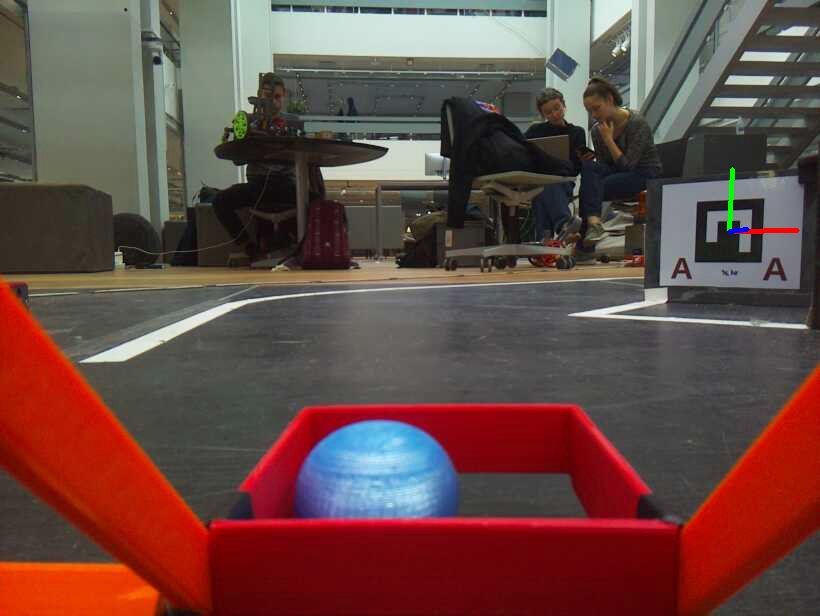
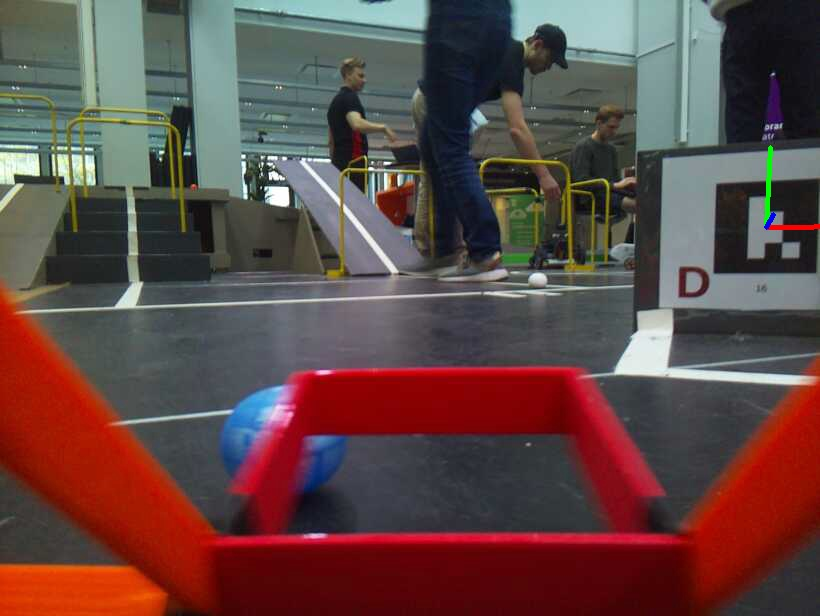
roundtherosy

diff --git a/mqtt_python/modules/navigate_to_drop_off.py b/mqtt_python/modules/navigate_to_drop_off.py
@@ -68,8 +68,7 @@ class NavigateToDropOff(Task):
         self.TURNRATE = 0.1
         self.ANGLEMARGIN = 0.05
         self.DISTMARGIN = 0.01
-        self.OFFSET = 0.0 #Offset 11cm
-        self.DELIVERY_OFFSET = 0.08
+        self.OFFSET = -0.6 #Offset 11cm
 
         self.states_q : list[State] = []
         self.state: State = State.VERIFY_POSITION
@@ -79,6 +78,7 @@ class NavigateToDropOff(Task):
         self.finish = False
         self.has_turned = False
         self.has_droven = False
+        self.has_reached_center = False
   
         self.actions = {
             State.VERIFY_POSITION 		    : self.verify_position,
@@ -122,7 +122,6 @@ class NavigateToDropOff(Task):
     def turn_to_target(self):
         pose.tripBreset()
         self.has_turned = True
-        self.has_droven = True
         if self.target.angle <= -self.ANGLEMARGIN: #If angle is less than margin
             self.add_state(State.TURN_LEFT)
             return False
@@ -134,7 +133,6 @@ class NavigateToDropOff(Task):
 
     def drive_to_target(self):
         pose.tripBreset()
-        self.has_turned = True
         self.has_droven = True
         
         if self.target.dist - self.OFFSET <= -self.DISTMARGIN:
@@ -153,7 +151,7 @@ class NavigateToDropOff(Task):
             self.stop()
             self.change_state()
         else:
-            self.turn(left=True) # Turn right
+            self.turn(left=True) #Turn Left 
     
     def turn_right(self):
         # self.stop() # for better acc
@@ -219,16 +217,15 @@ class NavigateToDropOff(Task):
         #endregion
   
     def navigate_to_corner(self):
-        if not self.has_turned(): #Examine if robot needs to turn towards target
+        if not self.has_turned: #Examine if robot needs to turn towards target
             self.turn_to_target()
             self.add_state(State.NAVIGATE_TO_CORNER)
             return		
 
         # VALIDATION STEP 2 DRIVE
-        elif not self.has_droven(): #Examine if robot needs to drive to target or backoff
+        elif not self.has_droven: #Examine if robot needs to drive to target or backoff
             self.drive_to_target()
-            self.add_state()
-            self.add_state(State.NAVIGATE_TO_CORNER)
+            self.add_state(State.NAVIGATE_TO_CORNER)		
             self.change_state()
             return
         
@@ -265,32 +262,37 @@ class NavigateToDropOff(Task):
                 self.add_state(State.NAVIGATE_TO_CORNER)
                 self.has_turned = False
                 self.has_droven = False
+                self.has_reached_center = True
                 self.change_state()
                 LOGGER.info('FOUND TARGET')
                 return
 
         if not poses: #If no poses turn
-            self.turn()
+            if self.has_reached_center:
+                self.turn(left = False)
+            else: self.turn()
             return
         elif len(poses) == 1:
             rvec, tvec, identifier = list(poses.values())[0]
-            drop_pos = drop_point(rvec, tvec, delivery=False, offset=0.3, show = True, img = img)
+            drop_pos = drop_point(rvec, tvec, delivery=False, offset=-0.5, show = True, img = img)
             self.target.set_pose(drop_pos)
             LOGGER.info('NO TARGET FOUND GOING TO NEXT CORNER', identifier)
             self.add_state(State.NAVIGATE_TO_CORNER)
             self.has_turned = False
             self.has_droven = False
+            self.has_reached_center = True
             self.change_state()
             return
         else: #If multiple poses, get the pose with the rightmost translation vector
             # Get the pose with the largest x value
             target_pose = max(poses.values(), key=lambda x: x[1][0][0])
             rvec, tvec, identifier = target_pose
-            drop_pos = drop_point(rvec, tvec, delivery=False, offset=0.3, show = True, img = img)
+            drop_pos = drop_point(rvec, tvec, delivery=False, offset=-0.5, show = True, img = img)
             self.target.set_pose(drop_pos)
             LOGGER.info('NO TARGET FOUND GOING TO NEXT CORNER M2', identifier)
             self.add_state(State.NAVIGATE_TO_CORNER)
             self.has_turned = False
             self.has_droven = False
+            self.has_reached_center = True
             self.change_state()
             return

diff --git a/mqtt_python/modules/aruco.py b/mqtt_python/modules/aruco.py
@@ -18,13 +18,13 @@ ARUCO_DICT = cv2.aruco.getPredefinedDictionary(cv2.aruco.DICT_4X4_100)
 ARUCO_MAP = {
 	# Sorting Center, MARKERSIZE 10 CM, 0.1 M
 	10: ("A", 0.1),
-	11: ("A", 0.1),
+	11: ("AR", 0.1),
 	12: ("B", 0.1),
-	13: ("B", 0.1),
+	13: ("BR", 0.1),
 	14: ("C", 0.1),
-	15: ("C", 0.1),
+	15: ("CR", 0.1),
 	16: ("D", 0.1),
-	17: ("D", 0.1),
+	17: ("DR", 0.1),
 	# Luggage, MARKERSIZE 4 CM, 0.04 M
 	5: ("car", 0.035),  # 0.35
 	20: ("LA", 0.035),
@@ -73,10 +73,11 @@ def get_pose(img, save_path=None) -> dict:
 	for _id, _corners in zip(ids, corners):
 		
 		identifier, _marker_size = ARUCO_MAP.get(_id[0], (None, None))
-		print(_id, identifier, _marker_size)
 		# assert identifier
 		# assert _marker_size
 		
+		if not identifier:
+			pass
 		_marker_points = get_marker_points(_marker_size)
 		
 		ret, rvec, tvec = cv2.solvePnP(_marker_points, _corners, MTX, DIST)

diff --git a/mqtt_python/mqtt-client.py b/mqtt_python/mqtt-client.py
@@ -20,6 +20,10 @@ from map import master_map
 from modules.task import TaskState
 from _variables import State, default_params, Task
 
+
+MAX_TASK_TIME = 200
+
+
 all_poses = []
 
 # set title of process, so that it is not just called Python
@@ -168,7 +172,7 @@ def loop():
 			elif sub_state == TaskState.SUCCESS:
 				print(f"Succeeded subtask '{current_task}'")
 				del task_list[0]
-			if 100 < time_in_state(state_start_time):
+			if MAX_TASK_TIME < time_in_state(state_start_time):
 				print(f"Lost in task {current_task}")
 				state = State.END_PROGRAM
 			if len(task_list) == 0: # when all task are done
